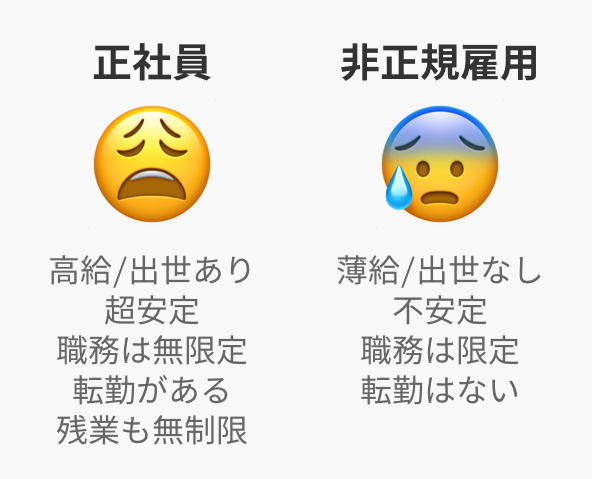
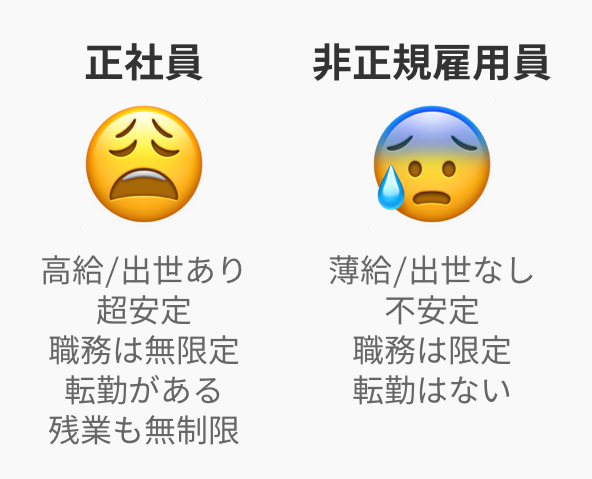
:pencil:

diff --git a/chapter-09.md b/chapter-09.md
@@ -134,7 +134,7 @@
 
 この二極化がブラック企業を生んだり、人材の流動性や付加価値生産性の低下を招いているという。
 
-正社員は無制限に残業させられ、非正規社員は使い捨てられ、自然と会社はブラックになる。正社員は新卒一括採用からの流入が主だが、すると相対的に中途採用の枠が減り、人材の流動性が下がる。職務が無限定の正社員が、さまざまな役職をたらい回しにされたらスキルも特化できない。それに加えて人材の流動性が低いとなれば、イノベーションも起きにくい。
+正社員は無制限に残業させられ、非正規雇用員は使い捨てられ、自然と会社はブラックになる。正社員は新卒一括採用からの流入が主だが、すると相対的に中途採用の枠が減り、人材の流動性が下がる。職務が無限定の正社員が、さまざまな役職をたらい回しにされたらスキルも特化できない。それに加えて人材の流動性が低いとなれば、イノベーションも起きにくい。
 
 さらに転勤の多さは、転勤が足かせになりやすい、子育て・共働き中の女性の社会進出も[阻む](https://www.amazon.co.jp/働く女子の運命-文春新書-濱口桂一郎-ebook/dp/B019GG3GCW?tag=chibicode-22)。転勤を拒むと出世できない。しかし、保育園や学校などの都合で、転勤は子育てにとってマイナスになる。となれば、どうしても正社員の地位を守りたい女性は子どもを産まないことが[最適解になってしまう](http://toyokeizai.net/articles/-/160635?page=3)。
 
